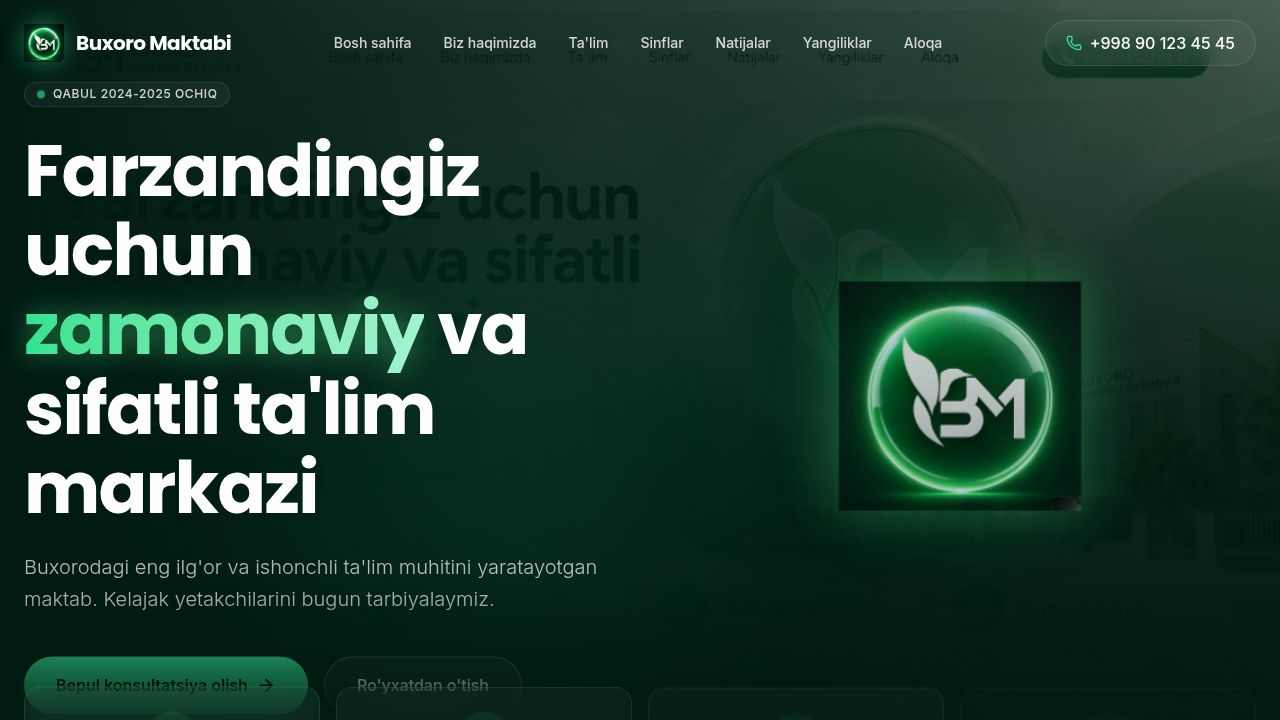
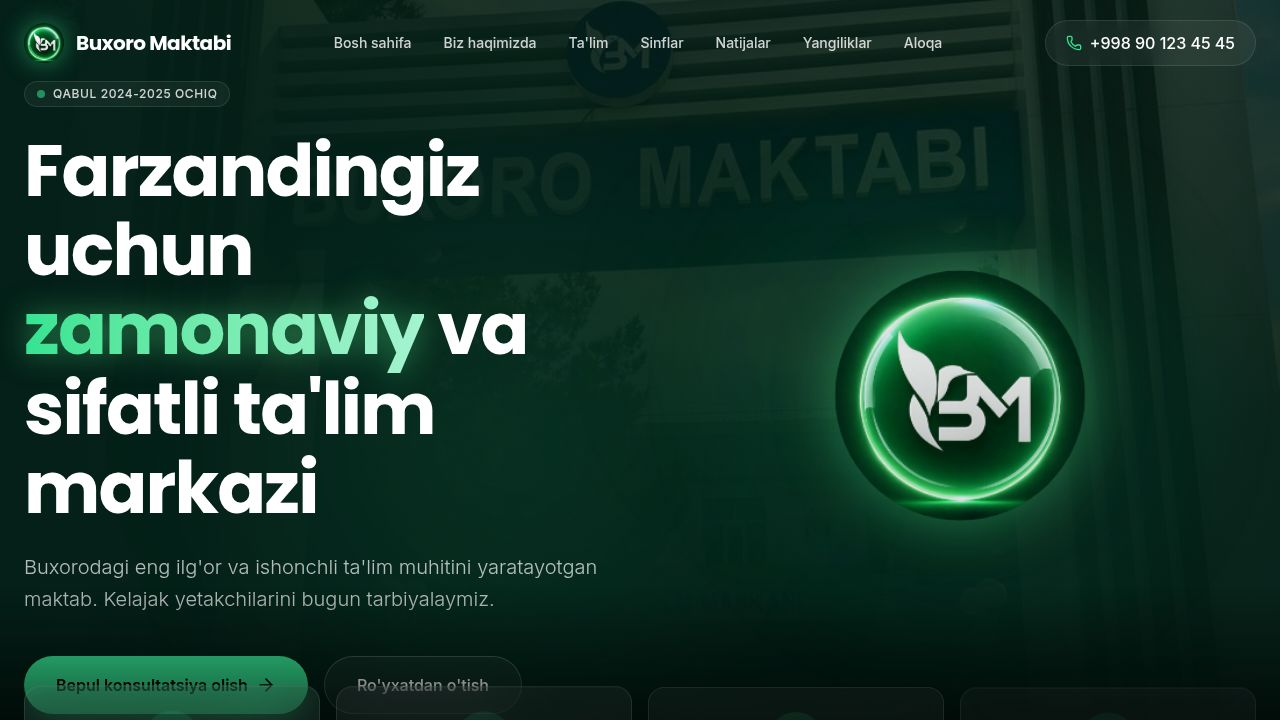
Brighten the entire page background and expand the hero section's glowing orb
Adjusted CSS variables for background lightness and expanded the glow effect in Hero.tsx.

Replit-Commit-Author: Agent
Replit-Commit-Session-Id: 5df99fe6-e441-4ded-8f95-6ff21fcdb821
Replit-Commit-Checkpoint-Type: full_checkpoint
Replit-Commit-Event-Id: 088e0214-557c-473b-8613-9afb17b2df78
Replit-Commit-Screenshot-Url: https://storage.googleapis.com/screenshot-production-us-central1/a1c72d44-82c1-4515-9825-93fe409f79d5/5df99fe6-e441-4ded-8f95-6ff21fcdb821/sYVLBd0
Replit-Helium-Checkpoint-Created: true

diff --git a/artifacts/buxoro-maktabi/src/index.css b/artifacts/buxoro-maktabi/src/index.css
@@ -74,19 +74,19 @@
 }
 
 :root {
-  --background: 162 100% 5%;
+  --background: 162 80% 7%;
   --foreground: 0 0% 100%;
-  --border: 162 50% 20%;
-  --input: 162 50% 20%;
+  --border: 162 50% 25%;
+  --input: 162 50% 25%;
   --ring: 152 76% 55%;
 
-  --card: 162 80% 8%;
+  --card: 162 70% 10%;
   --card-foreground: 0 0% 100%;
-  --card-border: 162 50% 20%;
+  --card-border: 162 50% 25%;
 
-  --popover: 162 80% 8%;
+  --popover: 162 70% 10%;
   --popover-foreground: 0 0% 100%;
-  --popover-border: 162 50% 20%;
+  --popover-border: 162 50% 25%;
 
   --primary: 152 76% 55%;
   --primary-foreground: 162 100% 5%;
@@ -124,19 +124,19 @@
 }
 
 .dark {
-  --background: 162 100% 5%;
+  --background: 162 80% 7%;
   --foreground: 0 0% 100%;
-  --border: 162 50% 20%;
-  --input: 162 50% 20%;
+  --border: 162 50% 25%;
+  --input: 162 50% 25%;
   --ring: 152 76% 55%;
 
-  --card: 162 80% 8%;
+  --card: 162 70% 10%;
   --card-foreground: 0 0% 100%;
-  --card-border: 162 50% 20%;
+  --card-border: 162 50% 25%;
 
-  --popover: 162 80% 8%;
+  --popover: 162 70% 10%;
   --popover-foreground: 0 0% 100%;
-  --popover-border: 162 50% 20%;
+  --popover-border: 162 50% 25%;
 
   --primary: 152 76% 55%;
   --primary-foreground: 162 100% 5%;

diff --git a/artifacts/buxoro-maktabi/src/components/Hero.tsx b/artifacts/buxoro-maktabi/src/components/Hero.tsx
@@ -69,7 +69,7 @@ export default function Hero() {
             className="hidden lg:flex justify-center items-center relative"
           >
             <div className="relative w-80 h-80 flex items-center justify-center">
-              <div className="absolute inset-0 bg-primary/20 blur-3xl rounded-full animate-pulse-slow"></div>
+              <div className="absolute -inset-16 bg-primary/25 blur-[80px] rounded-full animate-pulse-slow"></div>
               <img 
                 src={logoImg} 
                 alt="Big Logo" 